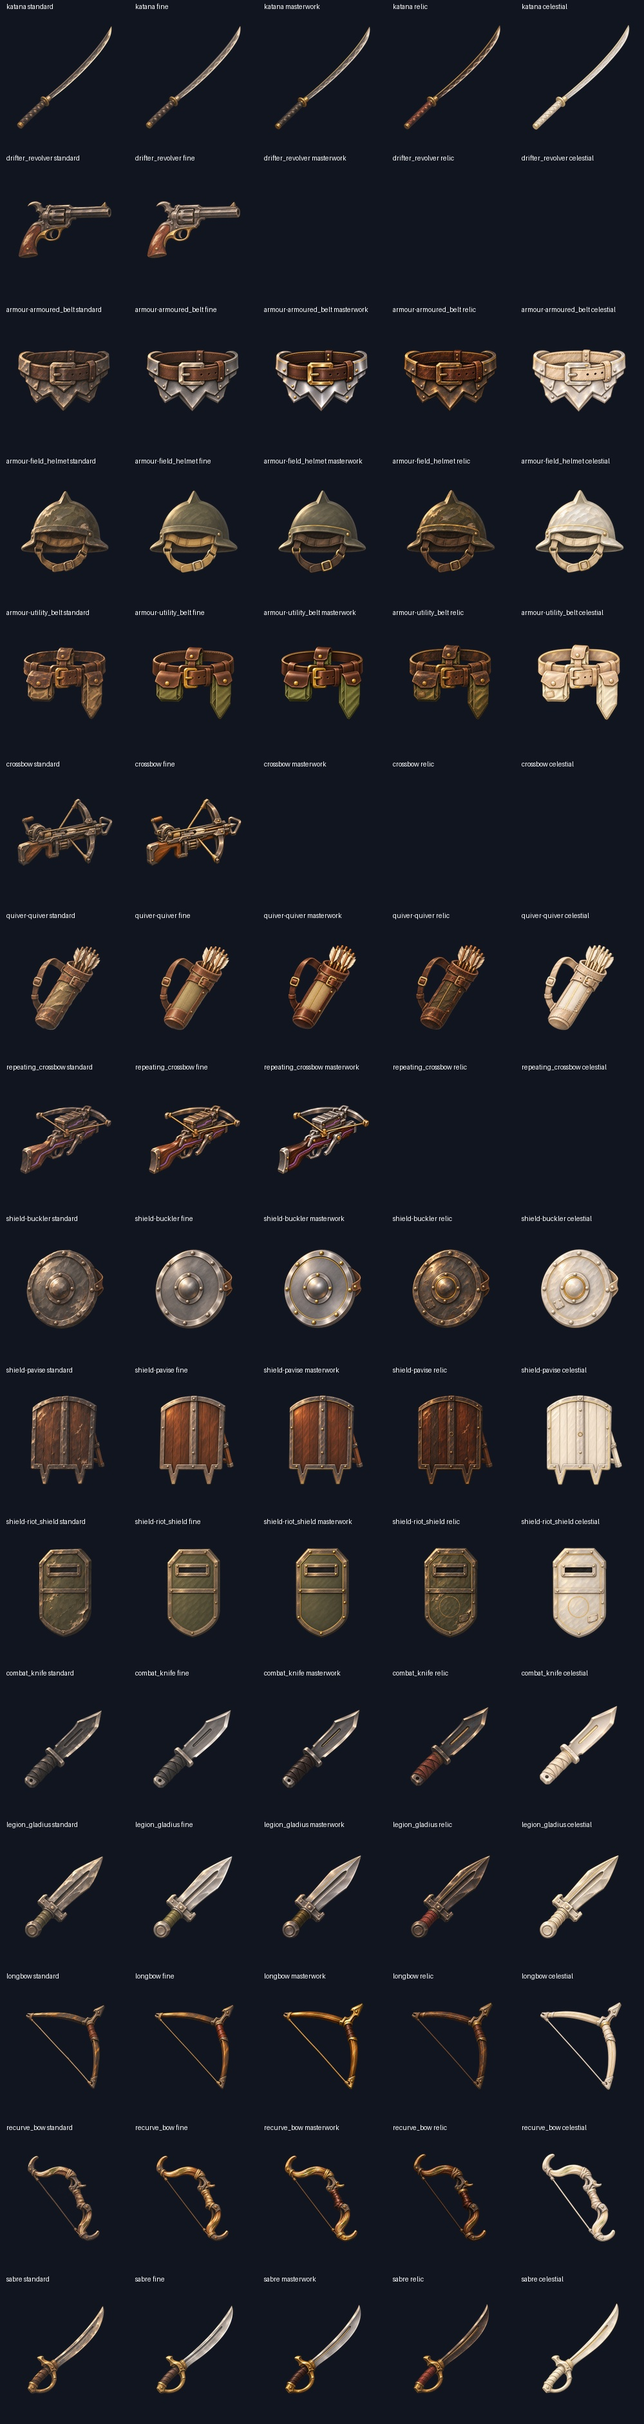
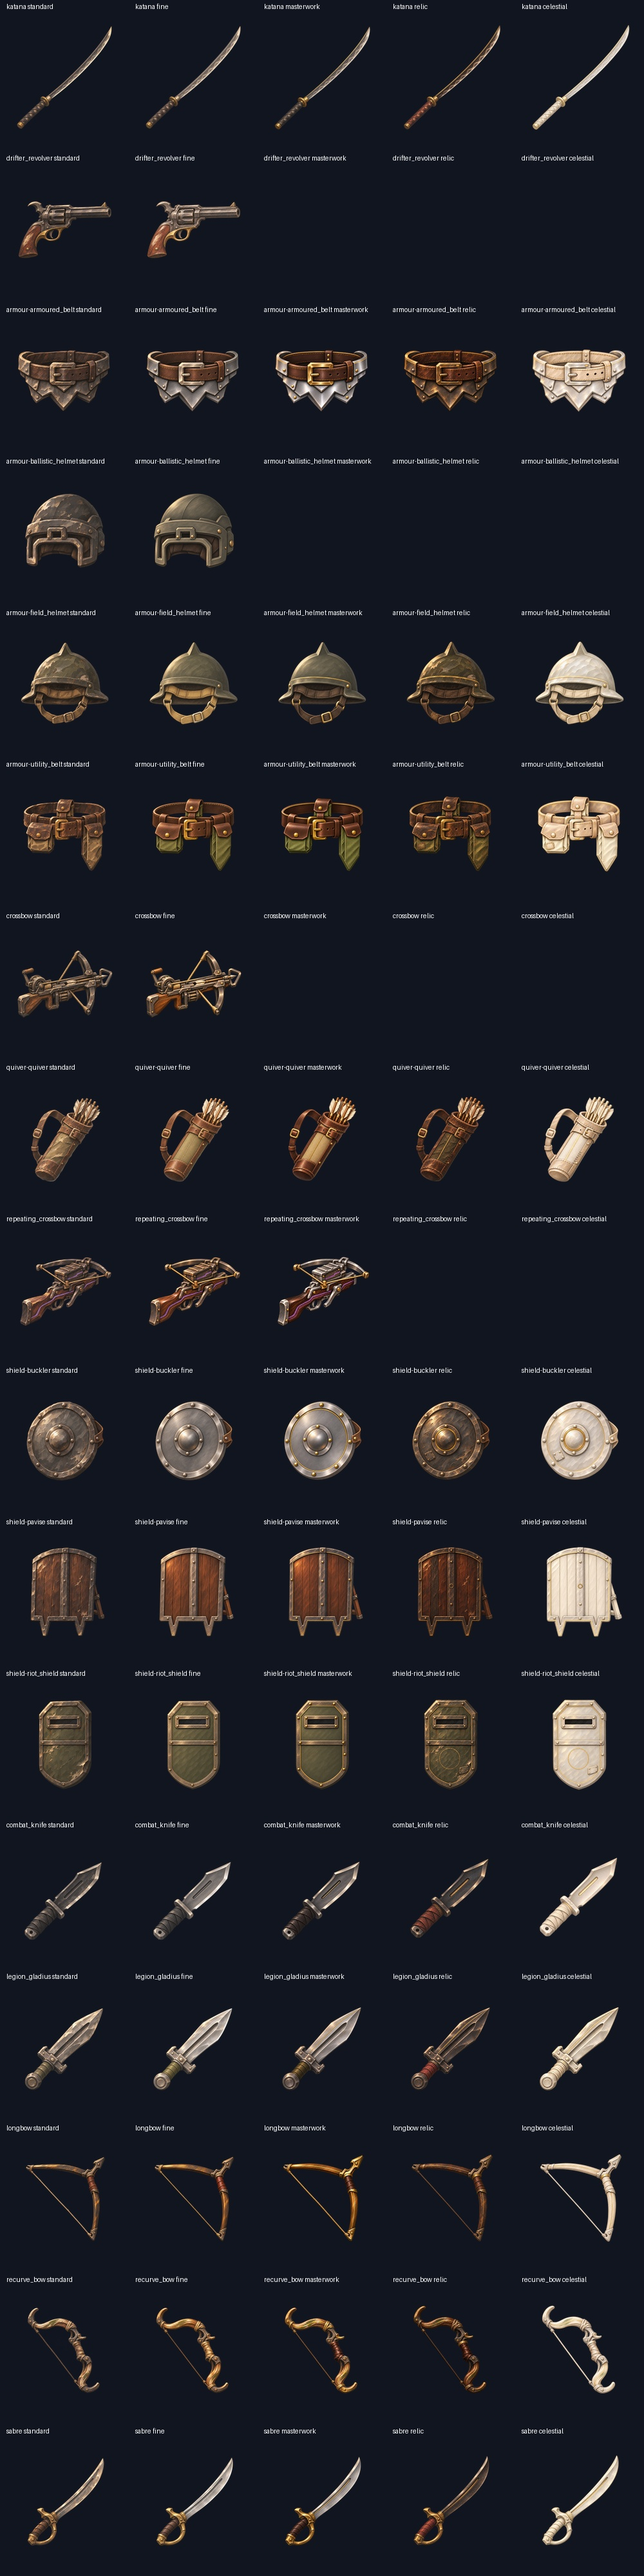
Archive armour-ballistic_helmet fine grade proof

diff --git a/art/_archive/prompt-pack/2026-11-19-file-08/PROGRESS.md b/art/_archive/prompt-pack/2026-11-19-file-08/PROGRESS.md
@@ -1,5 +1,5 @@
-# Grade candidate progress
+# Grade proof progress
 
-56 registered review-candidate masters, 224 game-size exports. Native trials, rejected images, exports and archived alternatives are not extra candidate pictures. No artistic approval is implied.
+56 registered review-candidate masters. 59 archived PNG attempts, including earlier Fine trials. The composite shows the current candidate for each finish.
 
-[Inventory-size comparison](review/finish-candidates-small.jpg) · [Native proof sheet](review/complete-proof-progress.jpg) · [Current claims](WORK-CLAIMS.md) · [Handoff](HANDOFF.md)
+[Proof progress](review/complete-proof-progress.jpg) · [Inventory sizes](review/finish-candidates-small.jpg) · [Claims](WORK-CLAIMS.md) · [Handoff](HANDOFF.md)
